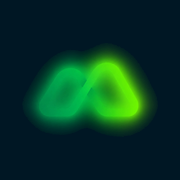
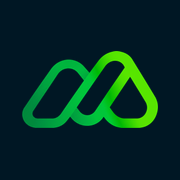
feat: try the interlocking M and A mark in place of the glowing one
The owner's new mark, its white turned to transparency, for variant A on port 3100.

Changed region(s): [[0.1111, 0.25, 0.8889, 0.75]]

diff --git a/app/components/SiteNav.vue b/app/components/SiteNav.vue
@@ -31,7 +31,7 @@ onBeforeUnmount(() => {
     <a class="skip" href="#conteudo">{{ t('nav.skip') }}</a>
     <nav class="nav" :aria-label="t('nav.label')">
       <NuxtLinkLocale to="/" class="wordmark" :aria-label="brand.name" @click="backToTop">
-        <img src="/brand/mark.png" alt="" width="138" height="96" class="symbol" />
+        <img src="/brand/mark.png" alt="" width="171" height="96" class="symbol" />
         <span class="logo" aria-hidden="true"
           >{{ brand.nameParts[0] }}<span class="ally">{{ brand.nameParts[1] }}</span></span
         >
@@ -159,7 +159,7 @@ onBeforeUnmount(() => {
 
 .symbol {
   width: auto;
-  height: 1.75rem;
+  height: 1.5rem;
 }
 
 .logo {

diff --git a/app/components/SiteFooter.vue b/app/components/SiteFooter.vue
@@ -13,7 +13,7 @@ const locale = useSiteLocale()
     <div class="top">
       <div class="brand">
         <NuxtLinkLocale to="/" class="wordmark" :aria-label="brand.name" @click="backToTop">
-          <img src="/brand/mark.png" alt="" width="138" height="96" class="symbol" />
+          <img src="/brand/mark.png" alt="" width="171" height="96" class="symbol" />
           <span class="logo" aria-hidden="true"
             >{{ brand.nameParts[0] }}<span class="ally">{{ brand.nameParts[1] }}</span></span
           >
